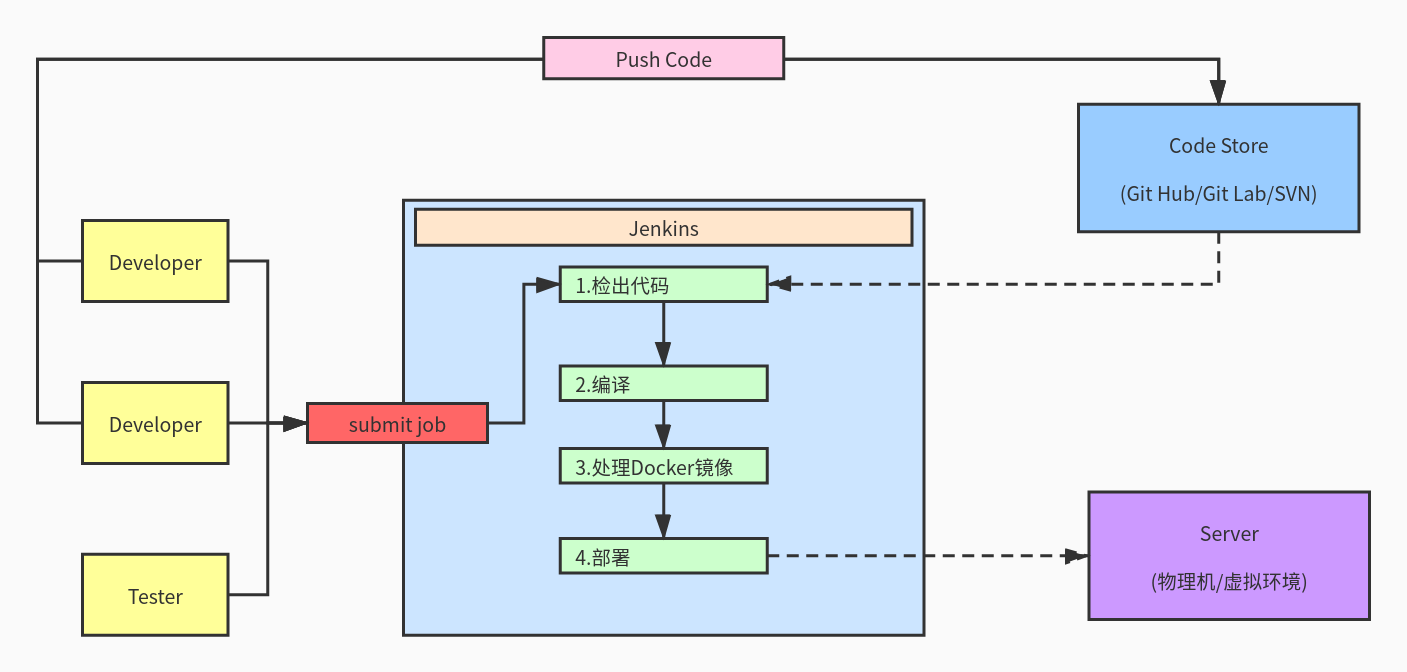
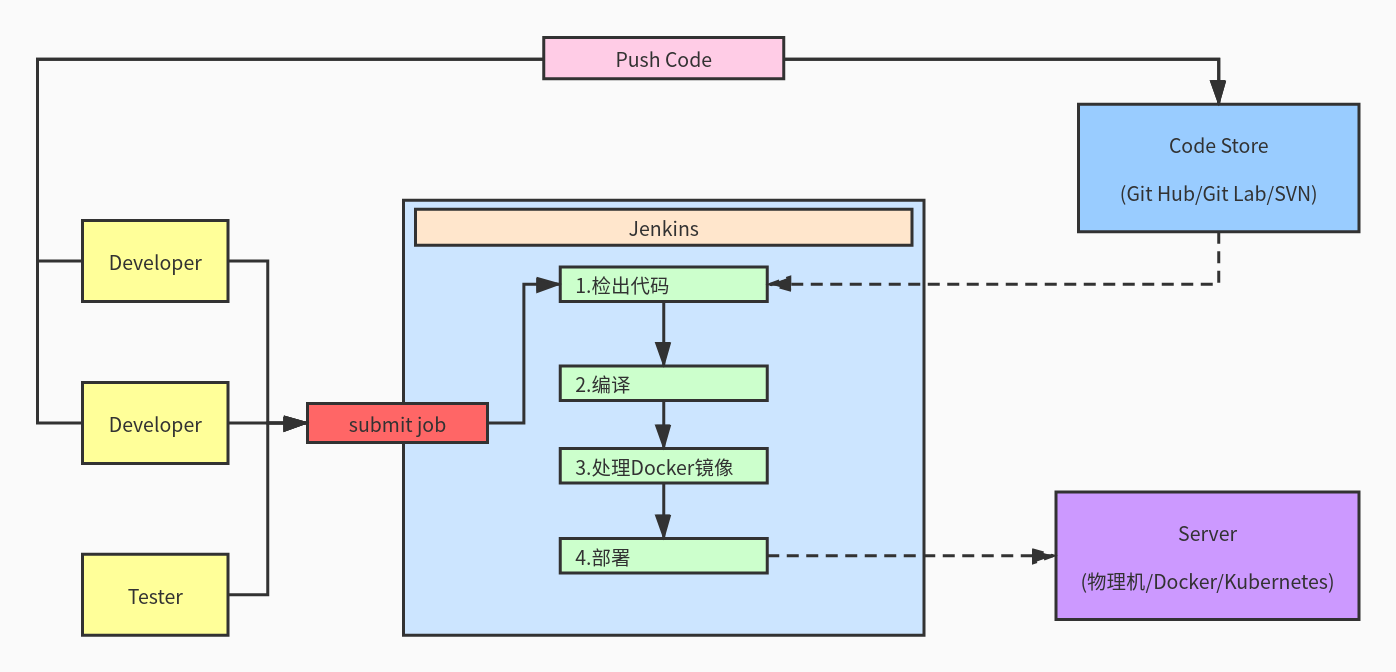
format

diff --git a/jenkins/README.md b/jenkins/README.md
@@ -2,13 +2,35 @@
 
 官方地址：[https://www.jenkins.io/](https://www.jenkins.io/)
 ******
-持续集成、自动化构建部署软件代码工具，细节参考如下[目录](#目录)
+持续集成、自动化构建部署软件代码工具
 ******
 **CI/CD**
 - ***CI***   持续集成(Continuous Integration) 
 - ***CD***  持续交付(Continuous Delivery)
 ******
 ![Jenkins](images/jenkins.jpg)
+******
+**工作结构流程图**
+| 角色 | 功能 |
+| :--- | :--- |
+| Developer | 开发者 |
+| Tester | 测试员 |
+| Code Store | 代码仓库：Git Hub、Git Lab、 SVN |
+| Server | 服务器：物理机、Docker、Kubernetes |
+******
+1. 开发者根据需求将最新代码提交到代码仓库
+
+2. 开发者/测试员页面操作Jenkins，提交发布构建任务(submit job)
+
+3. **Jenkins内部**检出源代码，一般通过Git插件等方式
+
+4. **Jenkins内部**编译代码，一般编写shell脚本根据不同编程语言进行配套的编译工作
+
+5. **Jenkins内部**处理Docker镜像，如果使用镜像方式部署
+
+6. **Jenkins内部**部署，将程序包上传至服务器并脚本启动**/**脚本将镜像在容器环境发布
+******
+**概念**：第3-6步骤在Jenkins中被称作**Job**，**Job**是一个完整的发布流程，**Job**由（组件+脚本）组合实现
 ******
 ## 目录
 * [安装](install.md)
